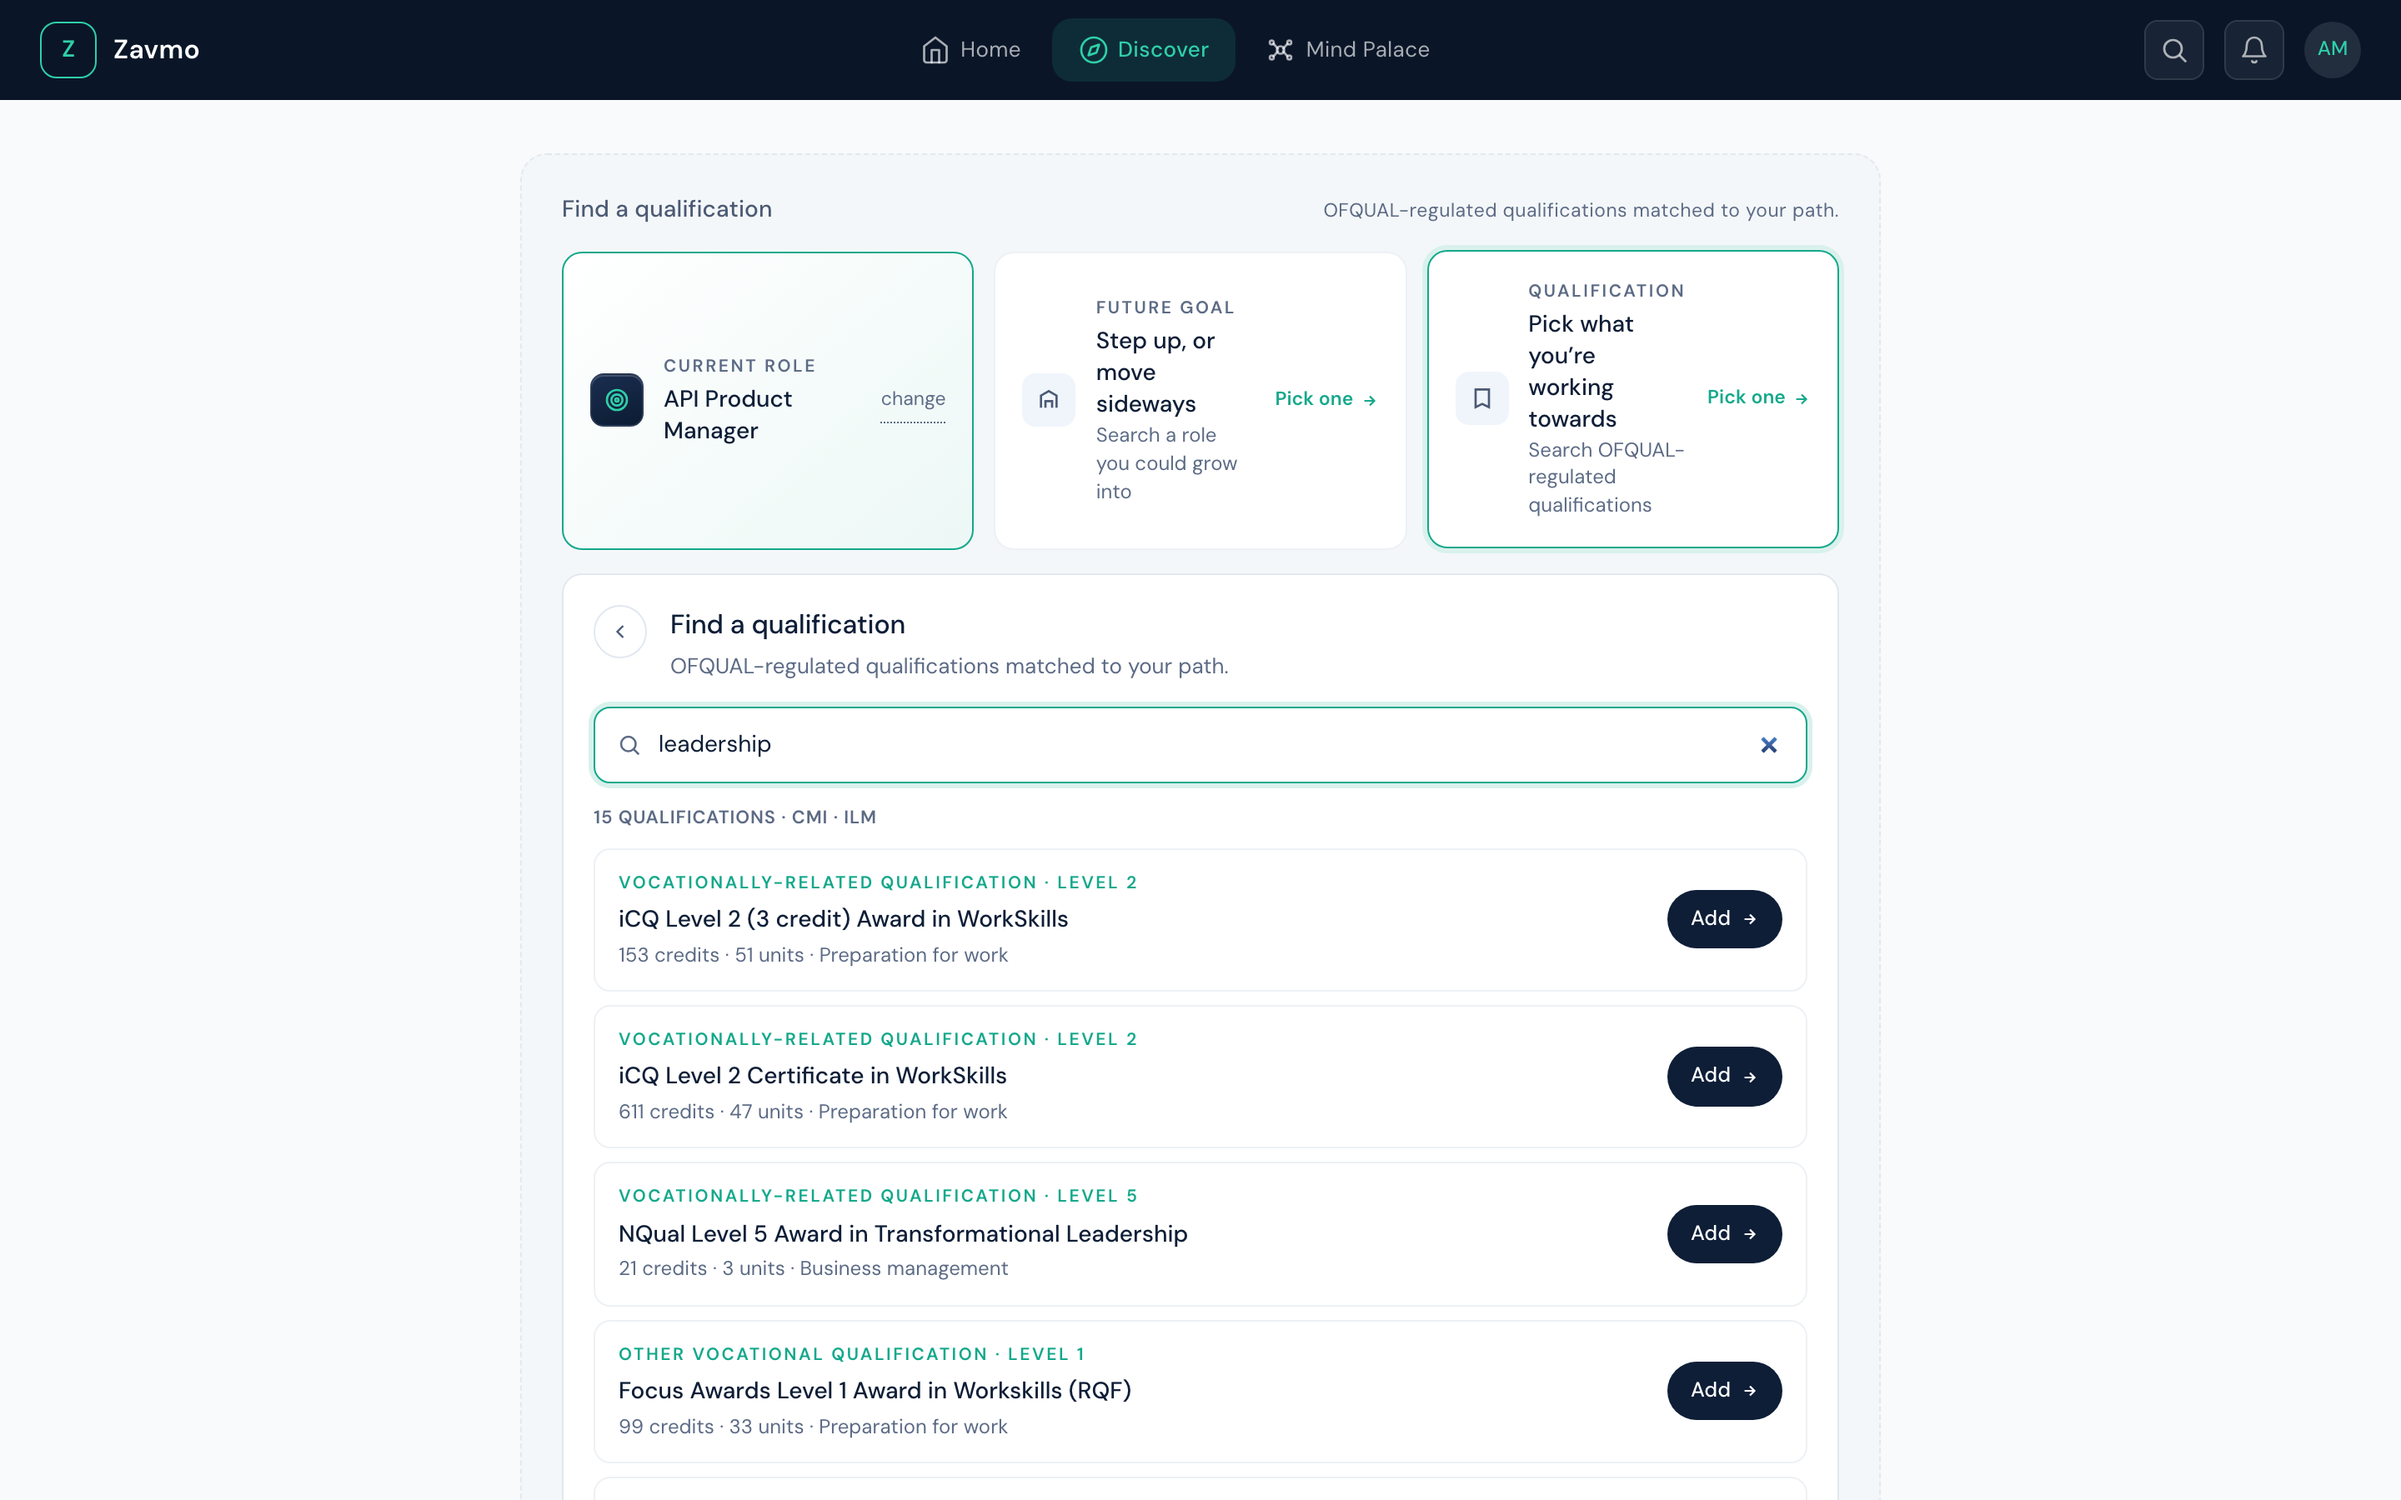
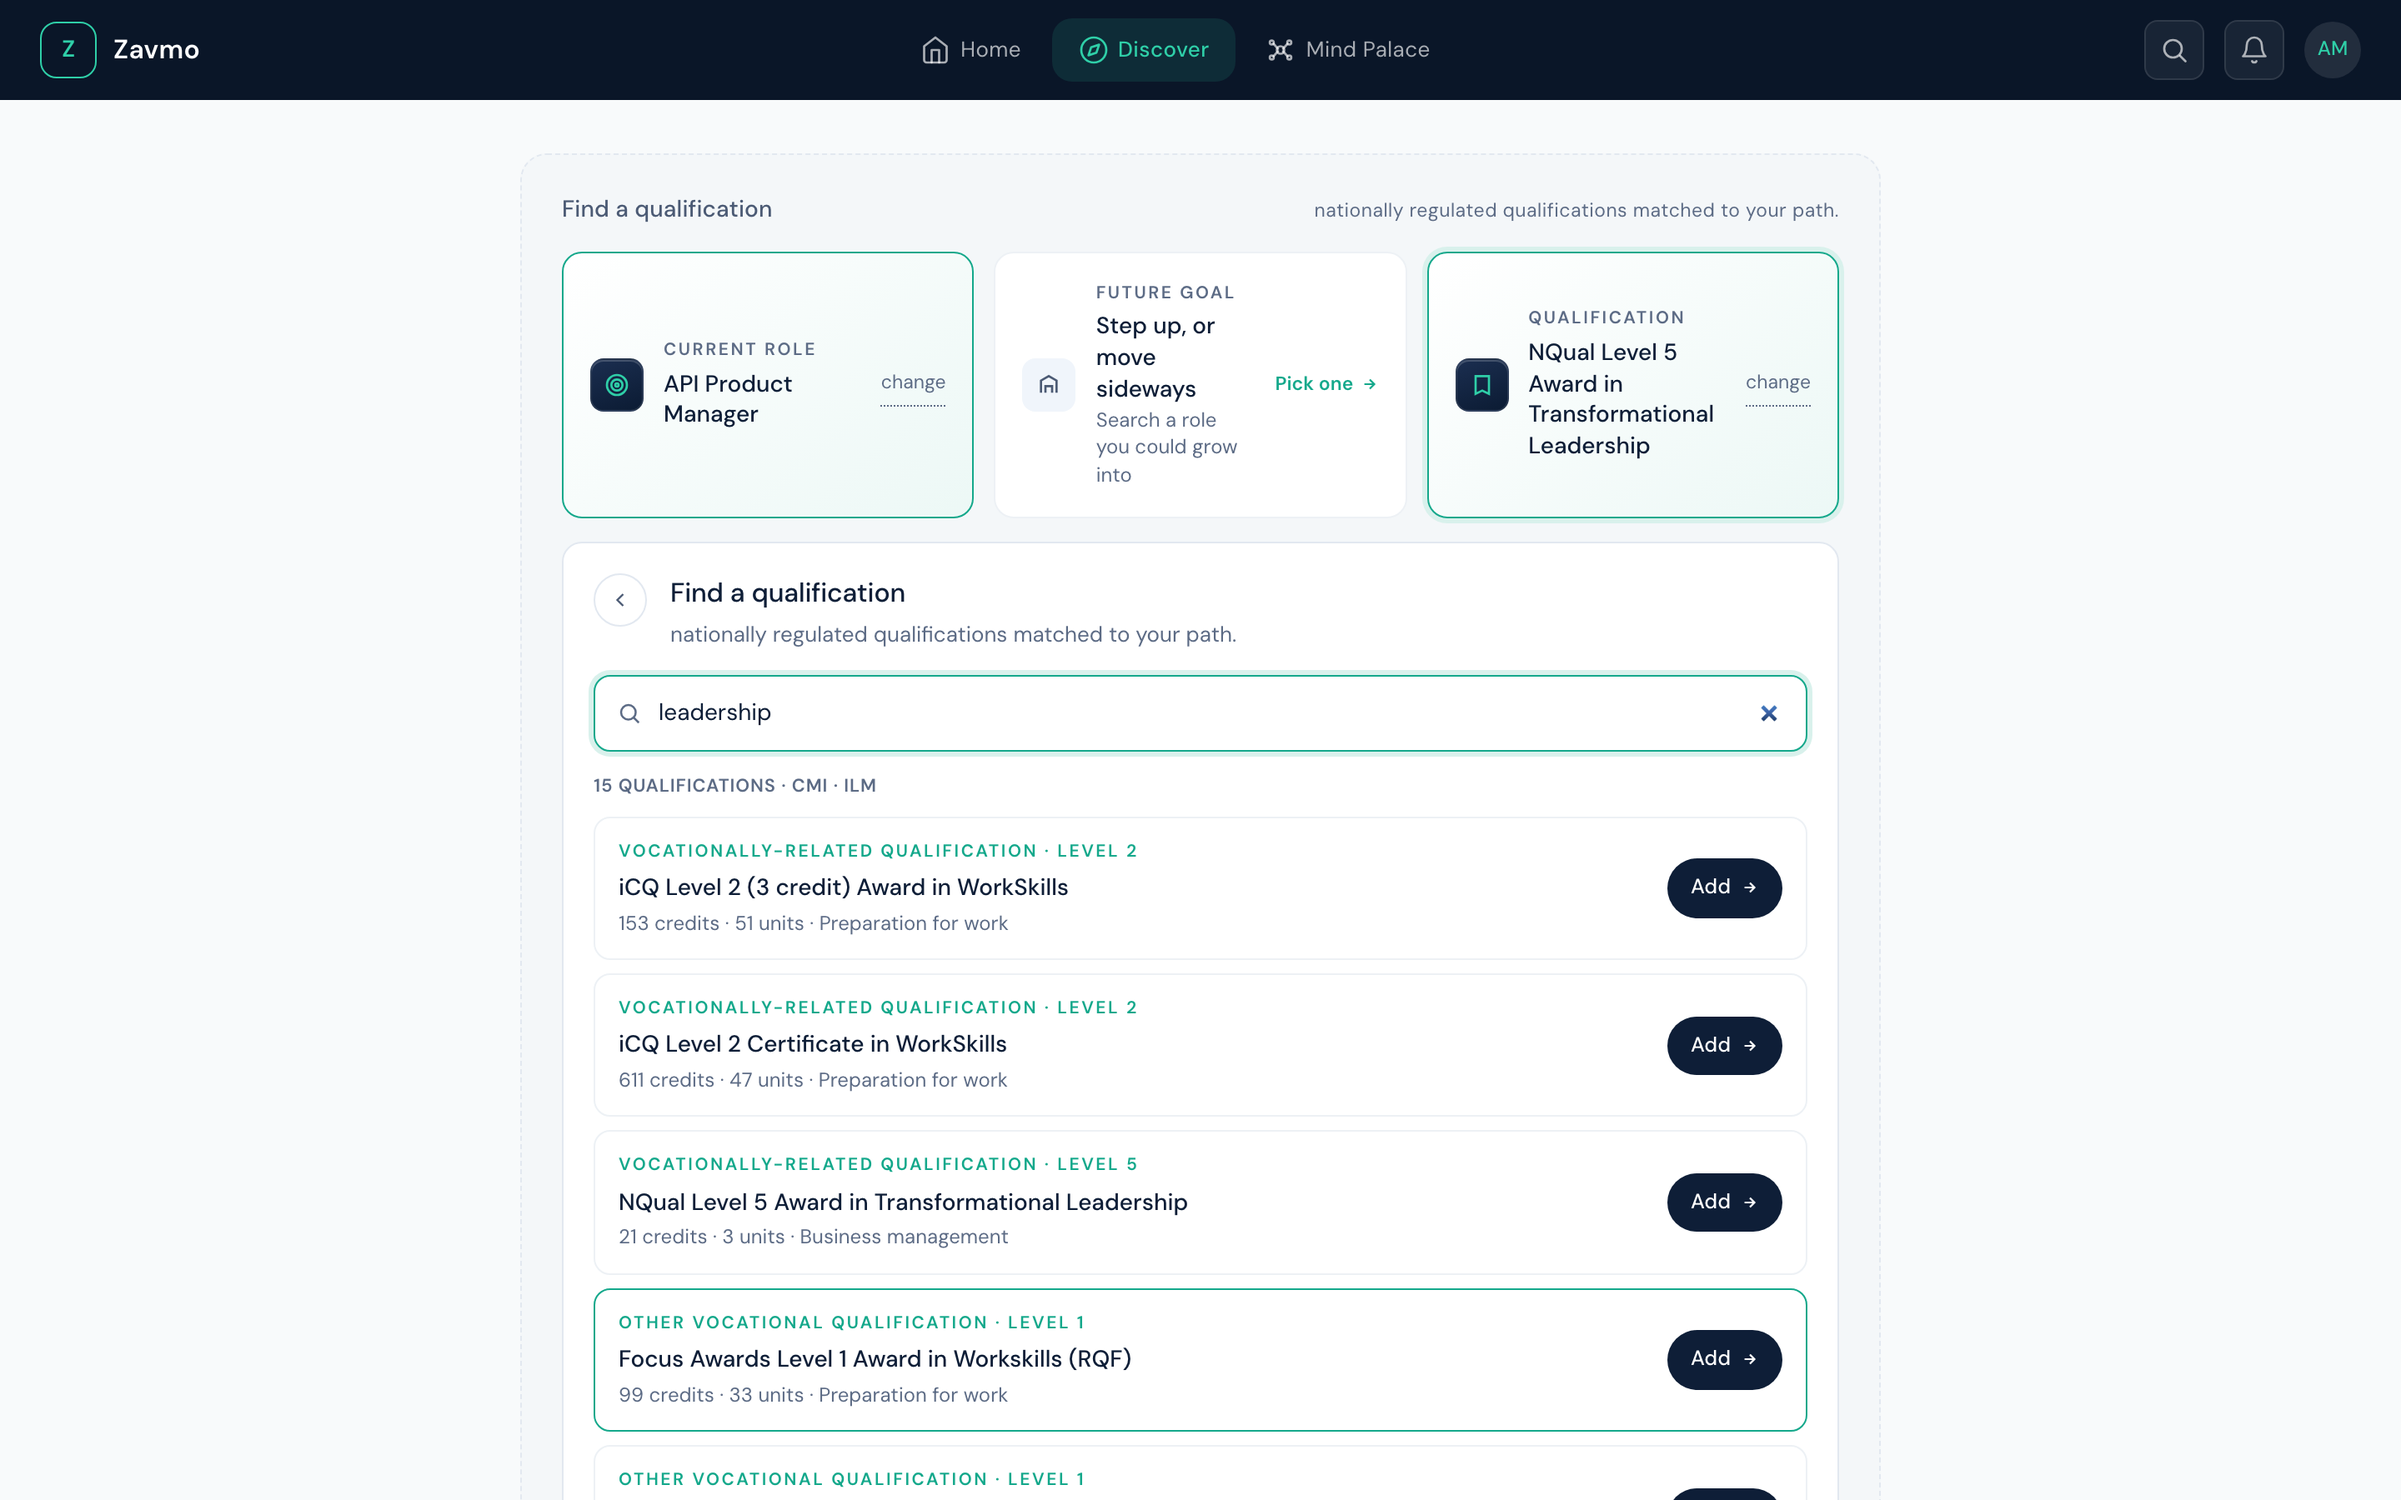
Drop OFQUAL for US audience (national standards) + add badges/rewards
- Reframe all OFQUAL references as 'national standards / nationally
  benchmarked' in captions AND screenshots (qual search, scenario, Bloom
  self-rate, readiness, onboarding studies); drop two OFQUAL-empty slides.
- Add the gamification badges/rewards: the 8-badge 'My Moments' gallery.

diff --git a/learner-journey/index.html b/learner-journey/index.html
@@ -113,7 +113,7 @@ const S=[
   { section:true, num:'PART 2', title:'Onboarding', sub:'Seven short chapters that build a portrait of the learner — who they are, where they’re heading, and how they learn best.' },
   { img:'03.png', eyebrow:'Onboarding · Chapter 1', title:'Who you are', caption:'Zavmo introduces itself and learns the basics — one gentle question at a time, with a progress rail on the right.' },
   { img:'04.png', eyebrow:'Onboarding · Chapter 2', title:'What you’re doing now', caption:'Role, industry and experience — and an honest picture of the working week. The role is matched to a shared library to keep language consistent.' },
-  { img:'05.png', eyebrow:'Onboarding · Chapter 3', title:'What you’ve studied', caption:'Prior qualifications, matched to the OFQUAL register — so Zavmo never wastes time teaching what you already know.' },
+  { img:'05.png', eyebrow:'Onboarding · Chapter 3', title:'What you’ve studied', caption:'Prior qualifications, matched to the national qualifications register — so Zavmo never wastes time teaching what you already know.' },
   { img:'06.png', eyebrow:'Onboarding · Chapter 4', title:'Where you’re heading', caption:'Goals at six months, two years and five years. This is the heart of it — Zavmo designs the path backwards from where you want to be.' },
   { img:'07.png', eyebrow:'Onboarding', title:'A halfway pulse-check', caption:'The required chapters are done. The next three are optional and more personal — the learner stays in control of how far to go.' },
   { img:'08.png', eyebrow:'Onboarding · Chapter 5', title:'How you feel about it', caption:'When you’re most yourself, and where the wobble shows up. Zavmo gets to know the person, not the CV.' },
@@ -125,14 +125,12 @@ const S=[
   { img:'12.png', eyebrow:'In the app', title:'Home', caption:'A personalised dashboard: where you are, where you’re heading, and a clear next step — with Zavmo narrating what it has noticed.' },
 
   { section:true, num:'PART 4', title:'Discover & assess', sub:'Choose a real qualification, then prove where you actually stand.' },
-  { img:'13.png', eyebrow:'Discover', title:'Pick your path', caption:'Current role, a future goal, and an OFQUAL-regulated qualification — three ways in, each shaping what comes next.' },
-  { img:'27.png', eyebrow:'Discover · Job description', title:'See the role before you choose it', caption:'Every role is backed by a real job description — day-to-day, responsibilities by experience band, and stakeholders — so learners pick their next role with eyes open, not blind.' },
-  { img:'14.png', eyebrow:'Discover · Qualification', title:'Real, regulated qualifications', caption:'Search the live OFQUAL register — every result is a genuine, regulated qualification with its real credits, units and awarding body.' },
-  { img:'15.png', eyebrow:'Discover · Your path', title:'A path, assembled', caption:'Current role plus a Level 5 leadership qualification — the destination is set, and Zavmo can work backwards from it.' },
+  { img:'27.png', eyebrow:'Discover · Job description', title:'See the role before you choose it', caption:'Discover offers three ways in — your current role, a future goal, or a qualification. Every role is backed by a real job description — day-to-day, responsibilities by experience band, and stakeholders — so learners choose with eyes open, not blind.' },
+  { img:'14.png', eyebrow:'Discover · Qualification', title:'Benchmarked to national standards', caption:'Every qualification is benchmarked against recognised national standards — so a learner knows what they’re studying is the real thing, the highest quality, with genuine credits, units and an awarding body behind it. Not invented content.' },
+  { img:'15.png', eyebrow:'Discover · Your path', title:'Pick your path', caption:'Current role, a future goal, and a nationally-recognised qualification come together — the destination is set, and Zavmo can now design the learning backwards from it.' },
   { img:'16.png', eyebrow:'Discover · Confidence check', title:'An assessment that thinks', caption:'Zavmo writes a bespoke, role-specific Level 5 scenario on the spot — a real dilemma with no clean answer — to find where you genuinely stand.' },
-  { img:'17.png', eyebrow:'Assessment', title:'Your skills assessment', caption:'The chosen qualification breaks into real OFQUAL units. Zavmo assesses each one — the Choose path → Assessment → Schedule → Learn → Certify journey.' },
+  { img:'17.png', eyebrow:'Assessment', title:'Your skills assessment', caption:'The chosen qualification breaks into real, nationally-benchmarked units. Zavmo assesses each one — the Choose path → Assessment → Schedule → Learn → Certify journey.' },
   { img:'18.png', eyebrow:'Assessment · Pedagogy', title:'Built on Bloom’s taxonomy', caption:'The backbone of how Zavmo teaches. Every skill is mapped across the six cognitive levels — Remember, Understand, Apply, Analyse, Evaluate, Create — so progress is measured by depth of understanding, not boxes ticked. This is mastery learning: the one-to-one, two-sigma method, delivered at scale.' },
-  { img:'19.png', eyebrow:'Assessment', title:'Show your thinking', caption:'Then a generated, role-specific scenario asks you to evidence the skill in your own words — graded by Zavmo, not a multiple-choice quiz.' },
   { img:'20.png', eyebrow:'Assessment', title:'Your study plan', caption:'From the results, Zavmo builds a priority-ordered study plan — units, hours, and a week-by-week timeline with milestones.' },
 
   { section:true, num:'PART 5', title:'Lesson delivery', sub:'An AI coach that teaches in your world — pitched at your Bloom’s level, paced to how you learn, and you can talk to it.' },
@@ -147,7 +145,7 @@ const S=[
   { img:'25.png', eyebrow:'Demonstrate', title:'Instant feedback, live score', caption:'Right answers build the running total toward the credential — immediate, gamified feedback at every step.' },
 
   { section:true, num:'PART 7', title:'The credential', sub:'Proof that travels — aligned to a real, regulated qualification.' },
-  { img:'26.png', eyebrow:'Certify', title:'Your readiness statement', caption:'Score 100% and Zavmo issues an OFQUAL-aligned readiness statement — “ready to sit the NQual Level 5 unit”, worth 21 credits, downloadable and shareable to LinkedIn.' },
+  { img:'26.png', eyebrow:'Certify', title:'Your readiness statement', caption:'Score 100% and Zavmo issues a nationally-benchmarked readiness statement — “ready to sit the Level 5 unit”, worth 21 credits, downloadable and shareable to LinkedIn. Proof that what you learned meets a real, recognised standard.' },
 
   { section:true, num:'PART 8', title:'Your profile', sub:'A living profile the learner owns.' },
   { img:'29.png', eyebrow:'Your profile', title:'Everything you’ve shared, in one place', caption:'Work, goals, how you like to learn, interests and support needs — all editable any time and auto-saving as you go. The more Zavmo knows, the better it shapes what comes next.' },
@@ -156,6 +154,7 @@ const S=[
   { img:'30.png', darkframe:true, eyebrow:'Mind Palace · Day one', title:'It begins with one moment', caption:'Every learner starts with an empty sky. “Your palace begins with one moment of learning” — the first outcome you master lights the first star.' },
   { img:'31.png', darkframe:true, eyebrow:'Mind Palace · Taking shape', title:'The first stars appear', caption:'A few outcomes in, the constellation starts to form — each star a learning outcome mastered, each line a connection between ideas, clustered by module. The brighter the star, the stronger the evidence.' },
   { img:'32.png', darkframe:true, eyebrow:'Mind Palace · Growing', title:'A map of everything you know', caption:'As the learner progresses, the palace fills in — here, seventeen outcomes across five clusters, reaching Evaluate-level (Bloom 5), two earned just today. Progress becomes something you can see, feel and come back to.' },
+  { img:'34.png', darkframe:true, eyebrow:'Gamification · Rewards', title:'Moments you earn', caption:'Eight signature milestone badges — First Lesson, First Insight, First Week, Bloom’s Climb, Comeback Kid, First Qualification — each unlocked with a warm, character-voiced celebration. Alongside daily streaks, weekly challenges and a live score in every check, they turn progress into momentum the learner can feel.' },
 ];
 
 let i=0;

diff --git a/admin-journey/index.html b/admin-journey/index.html
@@ -110,7 +110,7 @@ const S=[
 
   { section:true, num:'PART 4', title:'Content & people', sub:'Everything you teach, and everyone you teach it to.' },
   { img:'04.png', eyebrow:'Content', title:'Pathways & content',
-    caption:'Every learning pathway, the OFQUAL specifications they’re built from, the skills graph, job descriptions, certificates and the xAPI catalogue — managed in one place.' },
+    caption:'Every learning pathway, the nationally-benchmarked specifications they’re built from, the skills graph, job descriptions, certificates and the xAPI catalogue — managed in one place.' },
   { img:'05.png', eyebrow:'Users', title:'The learner directory',
     caption:'Live status for every learner, sourced from learn.zavmo.ai — progress, current stage (Discover → Deliver), cohort and pathway — with Zavmo flagging risks before they slip. (Names shown here are demo data.)' },
 
